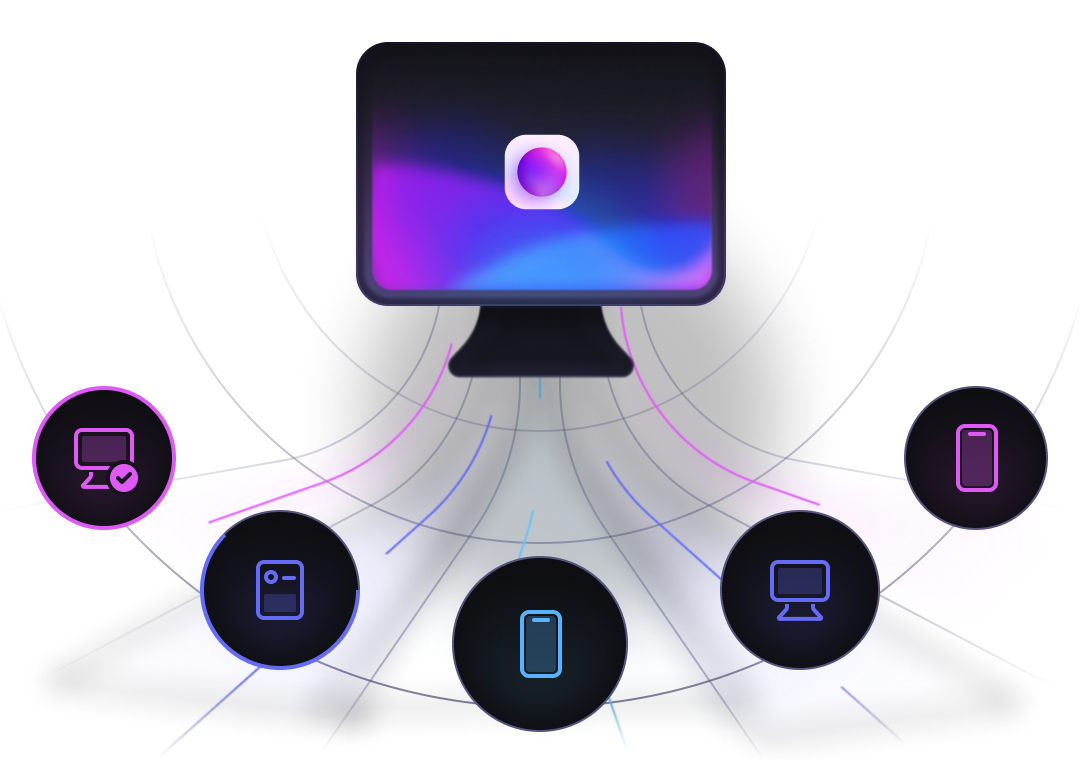
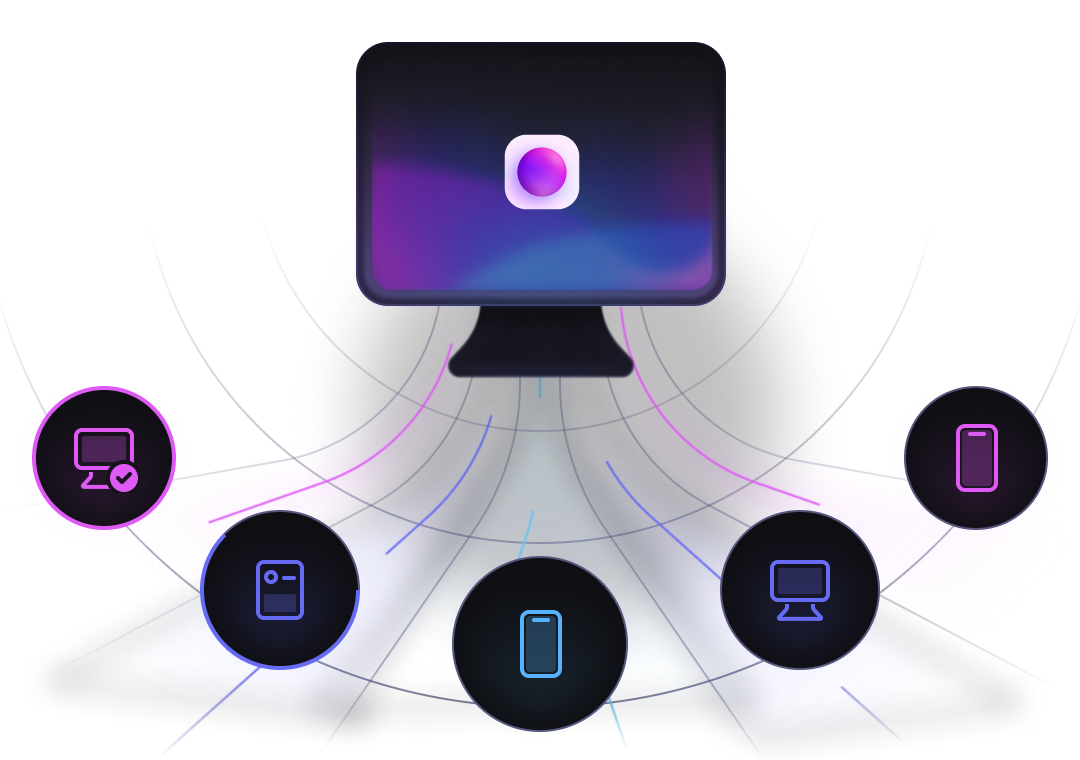
wip art

Changed region(s): [[0.3361, 0.1816, 0.6722, 0.3934]]

diff --git a/apps/landing/src/app/page-sections/features.tsx b/apps/landing/src/app/page-sections/features.tsx
@@ -4,19 +4,17 @@ import React from 'react';
 
 export const Features = () => {
 	return (
-		<div className="relative mx-auto flex w-full max-w-[1200px] flex-row flex-wrap p-4">
+		<div className="relative mx-auto flex h-auto w-full max-w-[1200px] flex-col flex-wrap p-4 md:flex-row">
 			{/** Lines & middle circle */}
-			<div className="absolute inset-x-0 mx-auto h-full w-px bg-gradient-to-b from-transparent via-[#6C708F] to-transparent" />
-			<div className="absolute flex h-px w-full self-center bg-gradient-to-r from-transparent via-[#6C708F] to-transparent" />
-			<div className="absolute left-1/2 top-1/2 z-10 mx-auto size-3 -translate-x-1/2 -translate-y-1/2 rounded-full bg-[#636783]" />
+			<div className="absolute inset-x-0 mx-auto hidden h-[90%] w-px bg-gradient-to-b from-transparent via-[#6C708F] to-transparent md:flex" />
+			<div className="absolute hidden h-px w-full self-center bg-gradient-to-r from-transparent via-[#6C708F] to-transparent md:flex" />
+			<div className="absolute inset-0 z-10 mx-auto hidden size-3 self-center rounded-full bg-[#636783] md:flex" />
 			{/** Features */}
 			{info.map((item, index) => (
 				<Feature
+					{...item}
 					key={index}
 					titleClassName={clsx((index === 1 || index === 3) && 'self-start')}
-					title={item.title}
-					imageSrc={item.imageSrc}
-					description={item.description}
 				/>
 			))}
 		</div>
@@ -29,28 +27,46 @@ interface Props {
 	imageSrc: string;
 	className?: string;
 	titleClassName?: string;
+	size?: { width: number; height: number };
 }
 
-const Feature = ({ title, description, className, titleClassName, imageSrc }: Props) => {
+const Feature = ({ title, description, className, titleClassName, imageSrc, size }: Props) => {
+	const imageSize = size ?? { width: 500, height: 500 };
 	return (
-		<div className={clsx('flex h-[700px] flex-[50%] flex-col gap-3 pl-16 pt-16', className)}>
-			<h1 className={clsx('text-2xl font-semibold', titleClassName)}>{title}</h1>
-			<p className="w-full max-w-[390px] text-ink-faint">{description}</p>
-			<Image
-				className="mt-8 px-8"
-				loading="eager"
-				layout="responsive"
-				width={500}
-				quality={100}
-				height={500}
-				alt={title}
-				src={imageSrc}
-			/>
+		<div className={clsx('flex h-[580px] flex-[50%] flex-col gap-3 pl-16 pt-16', className)}>
+			<div className="flex flex-col gap-1">
+				<h1 className={clsx('text-2xl font-semibold', titleClassName)}>{title}</h1>
+				<p className="w-full max-w-[390px] text-ink-faint">{description}</p>
+			</div>
+			{/* Container needed to force <Image> into custom sizes */}
+			<div
+				className="w-full mx-auto"
+				style={{
+					width: imageSize.width,
+					height: imageSize.height
+				}}
+			>
+				<Image
+					className="px-8 mt-6"
+					loading="eager"
+					layout="responsive"
+					width={imageSize.width}
+					height={imageSize.height}
+					quality={100}
+					alt={title}
+					src={imageSrc}
+				/>
+			</div>
 		</div>
 	);
 };
 
-const info = [
+const info: {
+	title: string;
+	description: string;
+	imageSrc: string;
+	size?: { width: number; height?: number };
+}[] = [
 	{
 		title: 'Spacedrop',
 		description:
@@ -59,15 +75,19 @@ const info = [
 	},
 	{
 		title: 'Tags',
+		size: {
+			width: 340,
+			height: 400
+		},
 		description:
 			'Organize and find your files faster by assigning custom tags to your folders and documents. Simplify your data management with easy categorization.',
-		imageSrc: ''
+		imageSrc: '/images/bento/tags.webp'
 	},
 	{
 		title: 'End-To-End Encryption',
 		description:
 			'Any time you send files across a network with Spacedrive, it’s end-to-end encrypted — ensuring that only you can access your files. Ever.',
-		imageSrc: ''
+		imageSrc: '/images/bento/vault.webp'
 	},
 	{
 		title: 'Extensions',

diff --git a/apps/landing/src/app/page-sections/header.tsx b/apps/landing/src/app/page-sections/header.tsx
@@ -1,3 +1,4 @@
+import Image from 'next/image';
 import React from 'react';
 import { getLatestRelease, getReleaseFrontmatter, githubFetch } from '~/app/api/github';
 import { GoldenBadge } from '~/components/golden-badge';
@@ -23,7 +24,7 @@ export async function Header() {
 	const release = await githubFetch(getLatestRelease);
 	const { frontmatter } = getReleaseFrontmatter(release);
 	return (
-		<div className="flex w-full flex-col items-center px-4">
+		<div className="flex flex-col items-center w-full px-4">
 			<div className="mt-22 lg:mt-28" id="content" aria-hidden="true" />
 			<div className="mt-24 lg:mt-8" aria-hidden="true" />
 
@@ -41,7 +42,7 @@ export async function Header() {
 				</span>
 			</h1>
 
-			<p className="animation-delay-1 fade-in-heading text-md leading-2 z-30 mb-8 mt-1 max-w-4xl text-center text-gray-450 lg:text-lg lg:leading-8">
+			<p className="z-30 max-w-4xl mt-1 mb-8 text-center animation-delay-1 fade-in-heading text-md leading-2 text-gray-450 lg:text-lg lg:leading-8">
 				Your files, always within reach. Experience seamless synchronization, intuitive
 				management, and powerful discovery tools — all in one place.
 			</p>
@@ -68,6 +69,17 @@ export async function Header() {
 							vx={-0.05}
 						/>
 					</div>
+					{/* 1st light */}
+					<Image
+						loading="eager"
+						className="absolute-horizontal-center animation-delay-2 top-[380px] -z-10 select-none fade-in xs:top-[180px] md:top-[130px]"
+						width={1200}
+						height={626}
+						alt="l"
+						src="/images/app/gradient.webp"
+					/>
+					{/* 2nd light */}
+					<div className="animation-delay-2 absolute-horizontal-center top-[550px] h-[150px] w-[150px] rounded-full bg-gradient-to-t from-transparent to-[#328FDD]/40 blur-[20px] fade-in xs:top-[180px] md:top-[500px] md:h-[500px] md:w-[240px] md:blur-[40px]" />
 					<HeroImage
 						src="/images/app/wip/MultiDeviceOverview.png"
 						alt="Spacedrive App Image"

diff --git a/apps/landing/src/components/home-cta-buttons.tsx b/apps/landing/src/components/home-cta-buttons.tsx
@@ -1,6 +1,5 @@
 'use client';
 
-import { usePlausible } from 'next-plausible';
 import { useState } from 'react';
 import { CtaPrimaryButton } from '~/components/cta-primary-button';
 import { CtaSecondaryButton } from '~/components/cta-secondary-button';
@@ -17,8 +16,6 @@ export function HomeCtaButtons({ latestVersion }: Props) {
 
 	const [dockerDialogOpen, setDockerDialogOpen] = useState(false);
 
-	const plausible = usePlausible();
-
 	const [formattedVersion, note] = (() => {
 		const platform = selectedPlatform ?? currentPlatform;
 		return platform
@@ -34,10 +31,9 @@ export function HomeCtaButtons({ latestVersion }: Props) {
 
 	return (
 		<>
-			<div className="flex flex-row gap-3">
+			<div className="flex flex-row flex-wrap justify-center gap-3">
 				{currentPlatform &&
 					(() => {
-						const Icon = currentPlatform.icon;
 						const { links } = currentPlatform;
 
 						return (
@@ -65,7 +61,7 @@ export function HomeCtaButtons({ latestVersion }: Props) {
 			</div>
 
 			{/* {selectedPlatform?.links && selectedPlatform.links.length > 1 && (
-				<div className="z-50 mb-2 mt-4 flex flex-row gap-3 fade-in">
+				<div className="z-50 flex flex-row gap-3 mt-4 mb-2 fade-in">
 					{selectedPlatform.links.map(({ name, arch }) => (
 						<HomeCTA
 							key={name}
@@ -99,7 +95,7 @@ export function HomeCtaButtons({ latestVersion }: Props) {
 				)}
 			</p>
 			{/* Platform icons */}
-			{/* <div className="relative z-10 mt-5 flex gap-3">
+			{/* <div className="relative z-10 flex gap-3 mt-5">
 				{Object.values<Platform>(platforms).map((platform, i) => {
 					return (
 						<motion.div

diff --git a/apps/landing/src/components/hero-image.tsx b/apps/landing/src/components/hero-image.tsx
@@ -15,13 +15,12 @@ interface HeroImageProps {
 export const HeroImage: React.FC<HeroImageProps> = ({ src, alt, width, height }) => {
 	return (
 		<Tilt tiltMaxAngleX={2} tiltMaxAngleY={2} transitionSpeed={5000} glareEnable={false}>
-			<div className="relative m-auto mt-10 flex w-full max-w-7xl overflow-hidden rounded-[10px] opacity-85 transition-transform duration-700 ease-in-out md:mt-0">
+			<div className="relative m-auto mt-10 flex w-full max-w-7xl overflow-hidden rounded-[10px] transition-transform duration-700 ease-in-out md:mt-0">
 				<div className="flex flex-col items-center justify-center">
-					<div className="z-30 flex w-full justify-center backdrop-blur">
+					<div className="z-30 flex justify-center w-full backdrop-blur">
 						<div className="relative h-auto w-full max-w-[1200px]">
 							<div className="h-px w-full bg-gradient-to-r from-transparent via-[#008BFF]/40 to-transparent" />
 							<div className="absolute inset-x-0 top-0 z-[110] size-full bg-gradient-to-b from-transparent to-[#0E0E12]" />
-
 							<Image
 								loading="eager"
 								layout="responsive"

diff --git a/apps/landing/src/app/page.tsx b/apps/landing/src/app/page.tsx
@@ -9,7 +9,7 @@ import {
 
 export default function Page() {
 	return (
-		<div className="flex flex-col gap-[200px]">
+		<div className="flex flex-col gap-12 md:gap-[200px]">
 			<Header />
 			<Explorer />
 			<Features />
